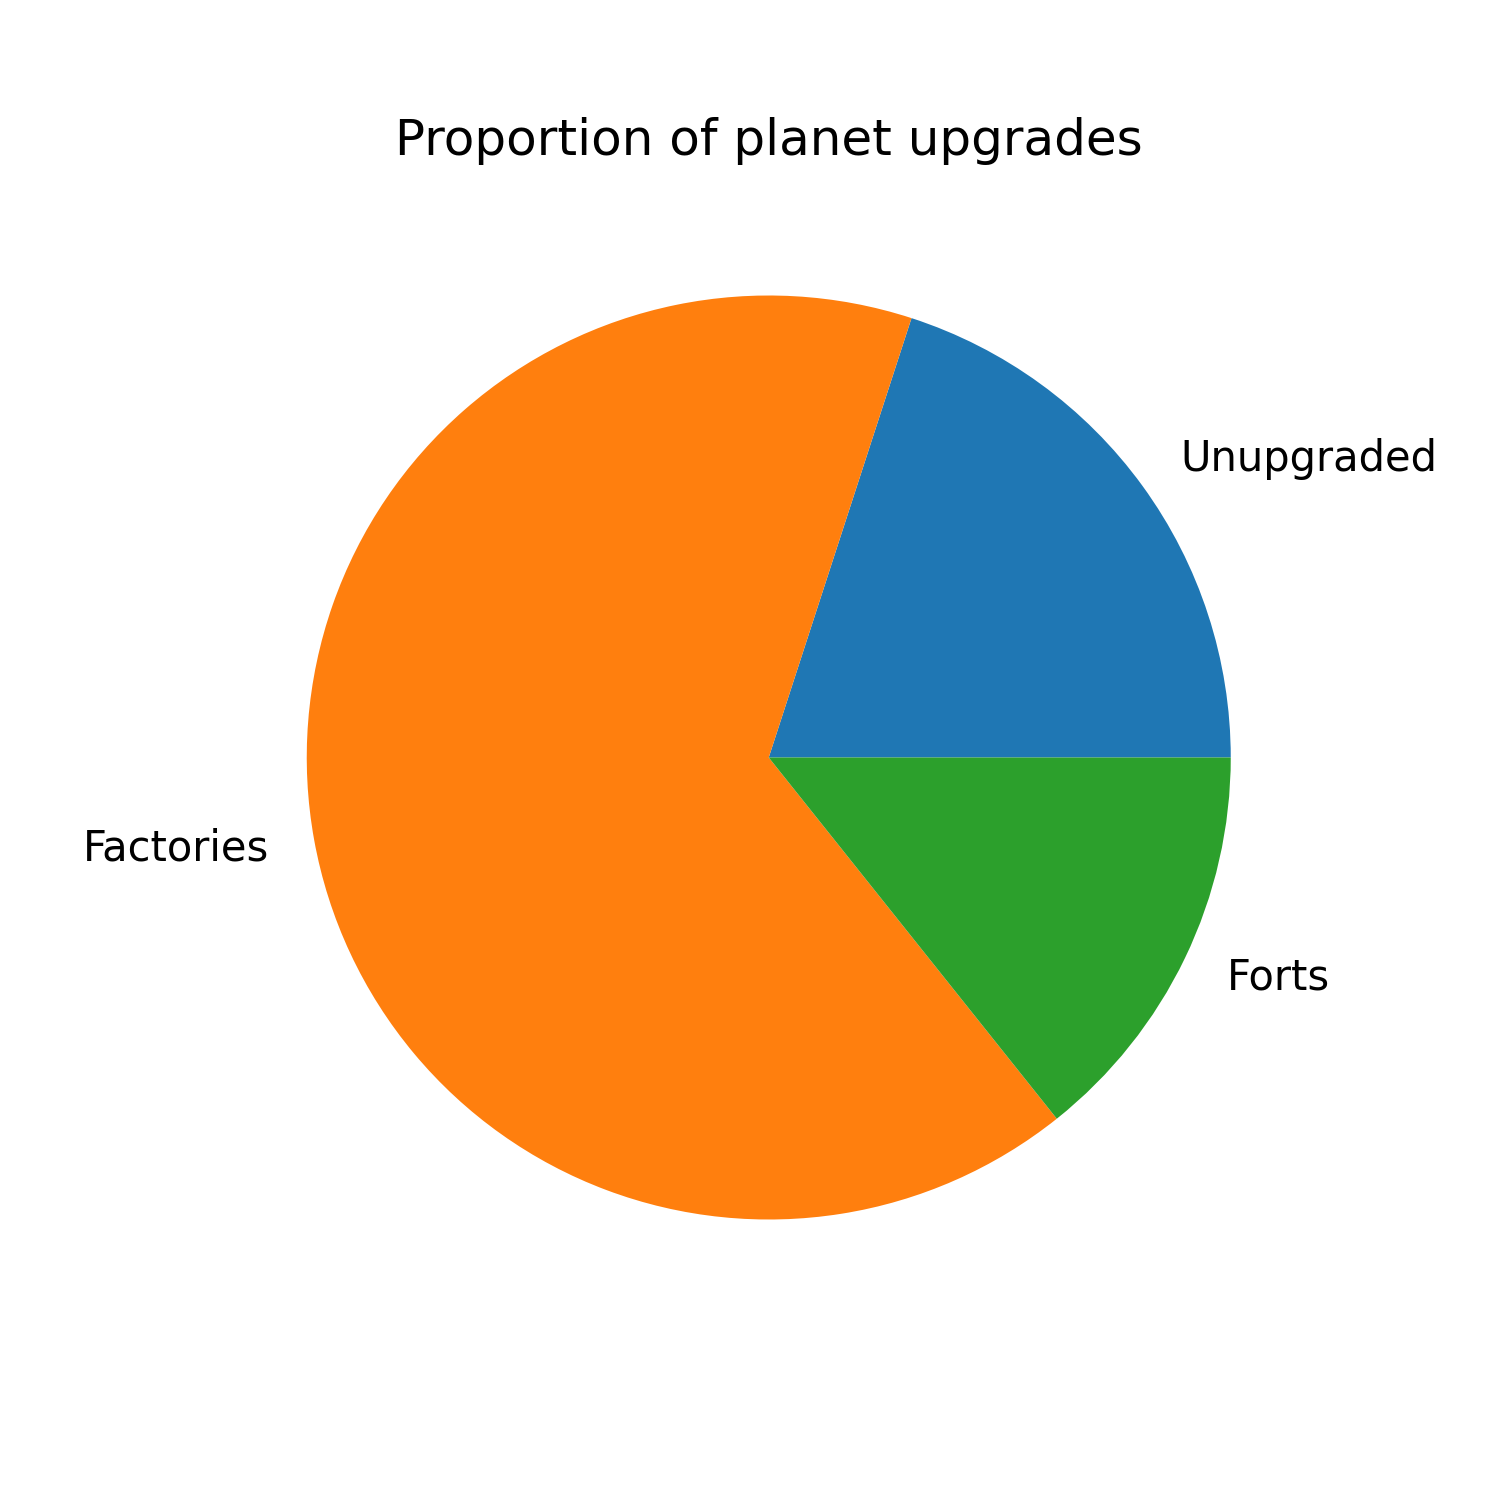
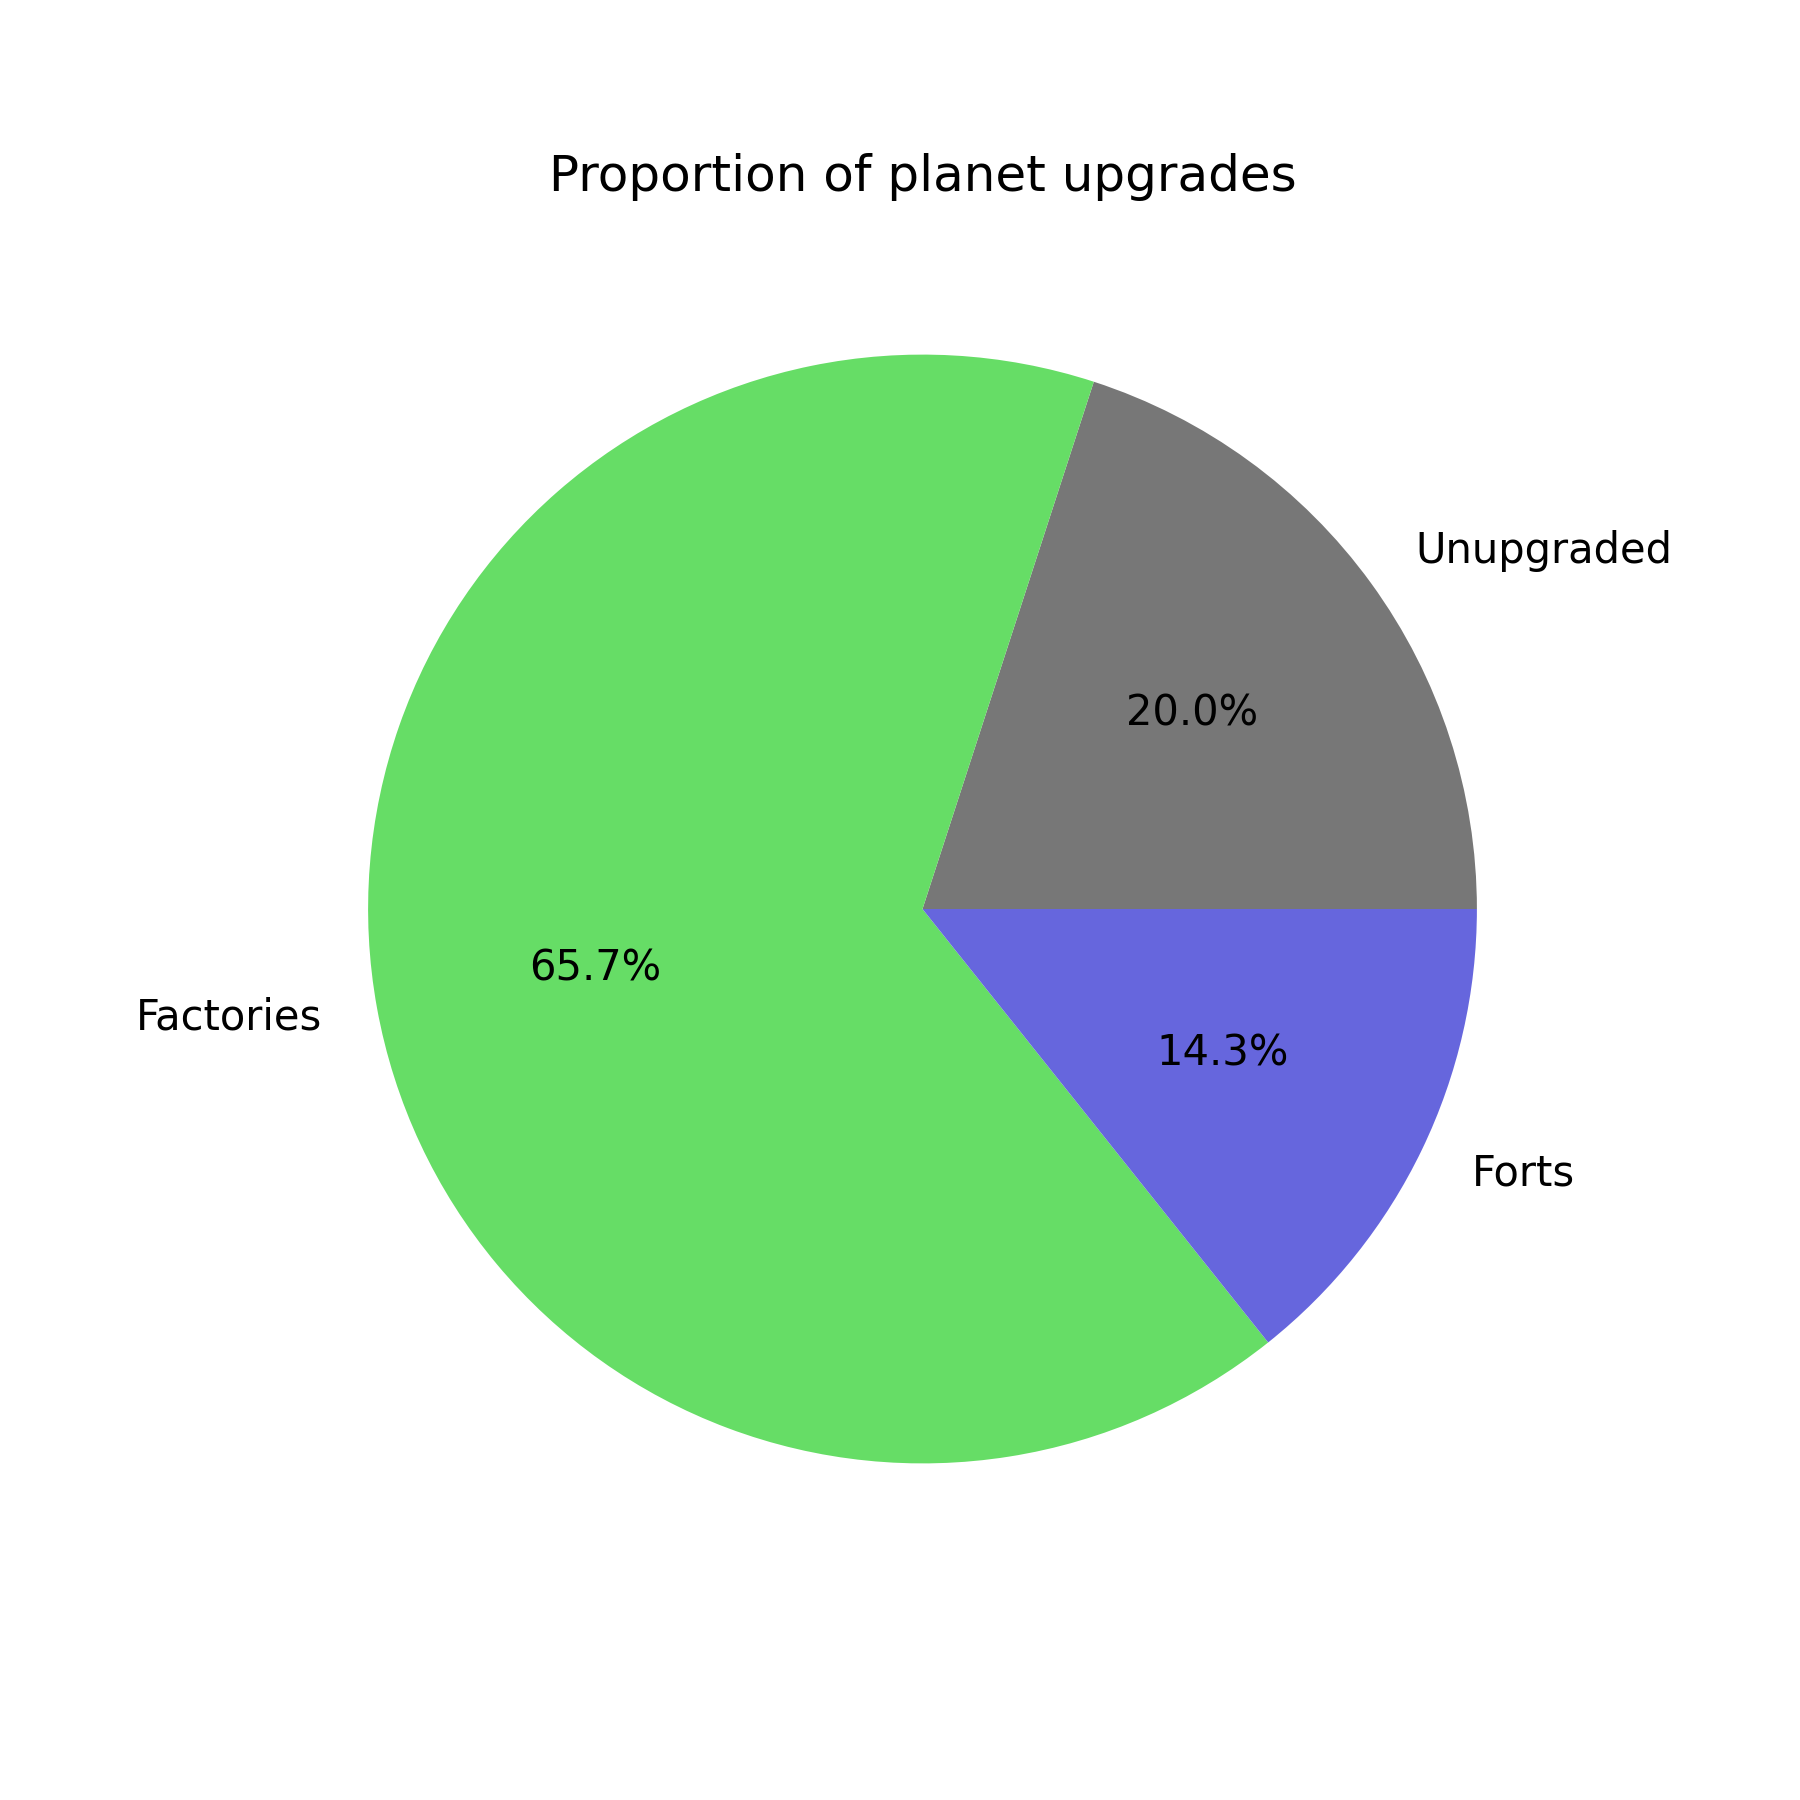
add all graphs

diff --git a/graphGenerator.py b/graphGenerator.py
@@ -1,11 +1,12 @@
 from matplotlib import pyplot as plt
-import pandas
+import pandas as pd
 
 class GraphGenerator:
     def __init__(self):
-        self.__graphs = [self.__generate_upgrades]
-        self.__current_graph = 0
-        self.__data = pandas.read_csv("statistics.csv")
+        self.__graphs = [self.__generate_upgrades, self.__generate_times, self.__generate_drones]
+        self.__current_graph = -1 #-1 so next graph would be 0th
+        self.__figsize = (6,6)
+        self.__data = pd.read_csv("statistics.csv")
 
     def next_graph(self):
         self.__current_graph = (self.__current_graph+1)%len(self.__graphs)
@@ -20,9 +21,39 @@ class GraphGenerator:
         unupgraded = self.__data["unupgraded"].sum()
         factories = self.__data["factories"].sum()
         forts = self.__data["forts"].sum()
-        plt.figure(figsize=(5,5), dpi=300)
-        plt.pie([unupgraded, factories, forts], labels=["Unupgraded", "Factories", "Forts"])
+        plt.figure(figsize=self.__figsize, dpi=300)
+        plt.pie([unupgraded, factories, forts], labels=["Unupgraded", "Factories", "Forts"], autopct="%1.1f%%", colors=["#777777", "#66DD66", "#6666DD"])
         plt.title("Proportion of planet upgrades")
+        plt.savefig(filename)
+        plt.close()
+        return filename
+
+    def __generate_times(self):
+        filename = "fig_times.png"
+        plt.figure(figsize=(5,5), dpi=300)
+        plt.scatter(self.__data["realtime"]/1000, self.__data["gametime"]/1000)
+        plt.title("Relation between in-game and real time")
+        plt.xlabel("Real time (seconds)")
+        plt.ylabel("In-game time (seconds)")
+        plt.savefig(filename)
+        plt.close()
+        return filename
+
+    def __generate_drones(self):
+        filename = "fig_drones.png"
+        plt.figure(figsize=(5,5), dpi=300)
+
+        bins = [0, 500, 1000, 1500, 2000]
+        bin_labels = ["0-500", "500-1000", "1000-1500", "1500-2000"]
+        grouped_data = self.__data.groupby(pd.cut(self.__data["drones_created"], bins, labels=bin_labels)).sum()
+        ratios = grouped_data["drones_destroyed"]/grouped_data["drones_created"]*100
+
+        plt.bar(ratios.index, ratios, color="#EE5500", label="destroyed")
+        plt.bar(ratios.index, 100-ratios, bottom=ratios, color="#66DD66", label="remaining")
+        plt.title("Distribution of drones spawned and destroyed")
+        plt.xlabel("Total number of drones")
+        plt.ylabel("Percentage")
+        plt.legend()
         plt.savefig(filename)
         plt.close()
         return filename

diff --git a/gameUi.py b/gameUi.py
@@ -27,6 +27,14 @@ class GameUi:
         else:
             return self.__menu.toggle_active()
 
+    def handle_keydown(self, key):
+        if not self.__statistics_menu.get_active():
+            return
+        if key == pygame.K_q:
+            self.__statistics_menu.prev_graph()
+        if key == pygame.K_e:
+            self.__statistics_menu.next_graph()
+
     def toggle_statistics_menu(self):
         return self.__statistics_menu.toggle_active()
 
@@ -178,14 +186,19 @@ class StatisticsMenu:
     def next_graph(self):
         filename = self.__graph_generator.next_graph()
         self.__current_graph = pygame.image.load(filename)
-        self.__current_graph = pygame.transform.scale(self.__current_graph, (800, 800))
+        self.__current_graph = pygame.transform.smoothscale(self.__current_graph, (800, 800))
+
+    def prev_graph(self):
+        filename = self.__graph_generator.prev_graph()
+        self.__current_graph = pygame.image.load(filename)
+        self.__current_graph = pygame.transform.smoothscale(self.__current_graph, (800, 800))
 
     def get_render_info(self):
         info = []
 
         info.append({
             "type": "text",
-            "text": "placeholder",
+            "text": "Q <-  Switch Graphs  -> E",
             "size": 75,
             "color": "#000000",
             "position": "top",

diff --git a/main.py b/main.py
@@ -146,6 +146,9 @@ class MainGame:
                 elif ui_event == "Exit":
                     self.running = False
 
+            if event.type == pygame.KEYDOWN:
+                self.ui.handle_keydown(event.key)
+
         if not self.ui_paused:
             if event.type == pygame.MOUSEWHEEL:
                 self.renderManager.change_zoom(event.y*0.05, pygame.mouse.get_pos())
